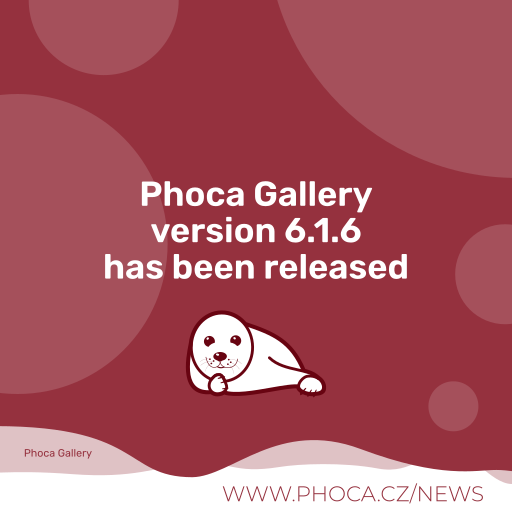
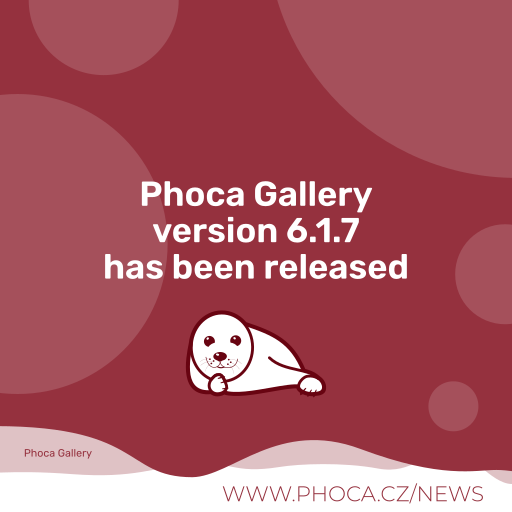
6.1.7

Changed region(s): [[0.2812, 0.4062, 0.7188, 0.4688]]

diff --git a/admin/libraries/phocagallery/youtube/youtube.php b/admin/libraries/phocagallery/youtube/youtube.php
@@ -16,84 +16,87 @@ jimport( 'joomla.filesystem.file' );
 
 class PhocaGalleryYoutube
 {
+	/**
+	 * A YouTube video ID is always exactly 11 characters of [A-Za-z0-9_-].
+	 */
+	public static function isValidCode($code) {
+		return is_string($code) && preg_match('/^[A-Za-z0-9_-]{11}$/', $code) === 1;
+	}
+
 	public static function displayVideo($videoCode, $view = 0, $ywidth = 0, $yheight = 0) {
 
 		$o = '';
-		if ($videoCode != '' && PhocaGalleryUtils::isURLAddress($videoCode) ) {
 
-			$pos1 		= strpos($videoCode, 'https');
-			if ($pos1 !== false) {
-				$shortvideoCode	= 'https://youtu.be/';
-			} else {
-				$shortvideoCode	= 'http://youtu.be/';
-			}
+		// Always re-derive and re-validate the ID, never trust the stored value
+		// (rows saved before this fix may contain attacker-controlled data)
+		$code = self::getCode($videoCode);
 
-			$pos 		= strpos($videoCode, $shortvideoCode);
-			if ($pos !== false) {
-				$code 		= str_replace($shortvideoCode, '', $videoCode);
-			} else {
-				$codeArray 	= explode('=', $videoCode);
-				$code 		= str_replace($codeArray[0].'=', '', $videoCode);
-			}
-
-
-
-		/*	$youtubeheight	= PhocaGallerySettings::getAdvancedSettings('youtubeheight');
-			$youtubewidth	= PhocaGallerySettings::getAdvancedSettings('youtubewidth');
-
-			if ((int)$ywidth > 0) {
-				$youtubewidth	= (int)$ywidth;
-			}
-			if ((int)$yheight > 0) {
-				$youtubeheight	= (int)$yheight;
-			} */
-
-
-			/*$o .= '<object height="'.(int)$youtubeheight.'" width="'.(int)$youtubewidth.'">'
-			.'<param name="movie" value="http://www.youtube.com/v/'.$code.'"></param>'
-			.'<param name="allowFullScreen" value="true"></param>'
-			.'<param name="allowscriptaccess" value="always"></param>'
-			.'<embed src="http://www.youtube.com/v/'.$code.'" type="application/x-shockwave-flash" allowscriptaccess="always" allowfullscreen="true" height="'.(int)$youtubeheight.'" width="'.(int)$youtubewidth.'"></embed></object>';*/
-
-            // height="'.(int)$youtubeheight.'" width="'.(int)$youtubewidth.'"
-			$o .= '<iframe src="//www.youtube.com/embed/'.$code.'" frameborder="0" allowfullscreen></iframe>';
+		if ($code !== '') {
+			$o .= '<iframe src="https://www.youtube.com/embed/' . htmlspecialchars($code, ENT_QUOTES, 'UTF-8') . '" frameborder="0" allowfullscreen></iframe>';
 		}
 
 		return $o;
-
 	}
 
+	/**
+	 * Extract a validated video ID from a YouTube URL.
+	 * Returns '' when the URL is not a recognised YouTube URL or the ID is not valid.
+	 */
 	public static function getCode($url) {
 
-		$o = '';
+		$url = trim((string)$url);
 
-		if ($url != '' && PhocaGalleryUtils::isURLAddress($url) ) {
-			$shortvideoCode		= 'http://youtu.be/';
-			$shortvideoCode2	= 'https://youtu.be/';
-			$pos 		= strpos($url, $shortvideoCode);
-			$pos2 		= strpos($url, $shortvideoCode2);
-			if ($pos !== false) {
-				$code 		= str_replace($shortvideoCode, '', $url);
-			} else if ($pos2 !== false) {
-				$code 		= str_replace($shortvideoCode2, '', $url);
-			} else {
-				$codeArray 	= explode('=', $url);
-				$code 		= str_replace($codeArray[0].'=', '', $url);
-			}
-			return $code;
+		if ($url === '' || !PhocaGalleryUtils::isURLAddress($url)) {
+			return '';
 		}
-		return $o;
+
+		$parts = parse_url($url);
+		if (!is_array($parts) || empty($parts['scheme']) || empty($parts['host'])) {
+			return '';
+		}
+
+		if (!in_array(strtolower($parts['scheme']), array('http', 'https'), true)) {
+			return '';
+		}
+
+		$host = strtolower($parts['host']);
+		$host = preg_replace('/^(www\.|m\.|music\.)/', '', $host);
+		$path = isset($parts['path']) ? $parts['path'] : '';
+		$code = '';
+
+		if ($host === 'youtu.be') {
+			// https://youtu.be/VIDEOID
+			$code = trim($path, '/');
+
+		} else if ($host === 'youtube.com' || $host === 'youtube-nocookie.com') {
+
+			if ($path === '/watch') {
+				// https://www.youtube.com/watch?v=VIDEOID&...
+				$query = array();
+				parse_str(isset($parts['query']) ? $parts['query'] : '', $query);
+				if (isset($query['v']) && is_string($query['v'])) {
+					$code = $query['v'];
+				}
+			} else if (preg_match('#^/(?:embed|v|shorts|live)/([^/?\#]+)#', $path, $m)) {
+				// https://www.youtube.com/embed/VIDEOID
+				$code = $m[1];
+			}
+		}
+
+		return self::isValidCode($code) ? $code : '';
 	}
 
 	public static function importYtb($ytbLink, $folder, &$errorMsg = '') {
 
-		$ytbCode 	= str_replace("&feature=related","",PhocaGalleryYoutube::getCode(strip_tags($ytbLink)));
+		// getCode() returns only a validated 11-character video ID (or '')
+		$ytbCode 	= PhocaGalleryYoutube::getCode(strip_tags($ytbLink));
 
 		$ytb				= array();
 		$ytb['title']		= '';
 		$ytb['desc']		= '';
 		$ytb['filename']	= '';
-		$ytb['link']		= strip_tags($ytbLink);
+		// Store a canonical link built from the validated ID, never the raw user input
+		$ytb['link']		= $ytbCode !== '' ? 'https://www.youtube.com/watch?v=' . $ytbCode : '';
 
 
 		if(!function_exists("curl_init")){
@@ -110,10 +113,8 @@ class PhocaGalleryYoutube
 
 			// Data
 			//$cUrl		= curl_init("http://gdata.youtube.com/feeds/api/videos/".strip_tags($ytbCode));
-			$cUrl 		= curl_init('https://www.googleapis.com/youtube/v3/videos?id='.strip_tags($ytbCode).'&part=snippet&key='.strip_tags($key));
+			$cUrl 		= curl_init('https://www.googleapis.com/youtube/v3/videos?id='.rawurlencode($ytbCode).'&part=snippet&key='.rawurlencode((string)$key));
 
-
-			$ssl = 0;
 
 			if ($ssl == 0) {
 				curl_setopt($cUrl, CURLOPT_SSL_VERIFYPEER, false);
@@ -153,6 +154,11 @@ class PhocaGalleryYoutube
 					$ytb['desc'] = (string)$oS->localized->description;
 				}
 
+				// Text coming from a third party API is stored and later printed by the detail view
+				// without escaping - strip any markup (defense in depth)
+				$ytb['title'] = strip_tags($ytb['title']);
+				$ytb['desc']  = strip_tags($ytb['desc']);
+
 				$img = '';
 
 				if (isset($oS->thumbnails->standard->url)) {
@@ -174,7 +180,7 @@ class PhocaGalleryYoutube
 
 
 
-				$ytb['filename']	= $folder.strip_tags($ytbCode).'.jpg';
+				$ytb['filename']	= $folder.$ytbCode.'.jpg';
 
 
 				if ($img != '') {
@@ -231,7 +237,7 @@ class PhocaGalleryYoutube
 				curl_close($cUrl);
 			}
 
-			$ytb['filename']	= $folder.strip_tags($ytbCode).'.jpg';
+			$ytb['filename']	= $folder.$ytbCode.'.jpg';
 
 			if (PhocaGalleryFile::exists(JPATH_ROOT . '/' .'images' . '/' . 'phocagallery' . '/'. $ytb['filename'], $img)) {
 				$errorMsg = Text::_('COM_PHOCAGALLERY_YTB_ERROR_VIDEO_EXISTS');

diff --git a/site/controllers/category.php b/site/controllers/category.php
@@ -501,7 +501,15 @@ class PhocaGalleryControllerCategory extends PhocaGalleryController
 		$limitStart	= $this->input->get('limitstart', 0, 'int');
 
 		$paramsC 	= ComponentHelper::getParams('com_phocagallery') ;
+		$catidAlias	= $catid;// for return (must be set before it is used in the redirect URL)
 		$catid 		= (int)$catid;
+
+		// Set the limistart (TO DO)
+		if ($limitStart > 0) {
+			$limitStartUrl	= '&limitstart='.$limitStart;
+		} else {
+			$limitStartUrl	= '';
+		}
 
 		$return			= Route::_('index.php?option=com_phocagallery&view=category&id='.$catidAlias.'&tab='.$tab.'&Itemid='.$Itemid.$limitStartUrl, false);
 		$redirectUrl 	= $return;
@@ -510,14 +518,6 @@ class PhocaGalleryControllerCategory extends PhocaGalleryController
 			$app->enqueueMessage(Text::_('COM_PHOCAGALLERY_PLEASE_SELECT_CATEGORY'), 'error');
 			$app->redirect($redirectUrl);
 			return false;
-		}
-
-		$catidAlias	= $catid;// for return
-		// Set the limistart (TO DO)
-		if ($limitStart > 0) {
-			$limitStartUrl	= '&limitstart='.$limitStart;
-		} else {
-			$limitStartUrl	= '';
 		}
 
 
@@ -572,7 +572,7 @@ class PhocaGalleryControllerCategory extends PhocaGalleryController
 
 
 
-			$ytbLink	= $this->input->get( 'phocagalleryytbuploadlink', '', 'string');
+			$ytbLink	= trim((string)$this->input->get( 'phocagalleryytbuploadlink', '', 'string'));
 
 			$errorYtbMsg	= '';
 			$ytbData	= PhocaGalleryYoutube::importYtb($ytbLink, $rightFolder . '/', $errorYtbMsg);

diff --git a/README.MD b/README.MD
@@ -114,7 +114,7 @@ If you need additional information beyond this GitHub repository, further docume
 ### Version (Joomla! 5.x - no longer supported)
 5.1.3
 ### Version (Joomla! 6.x)
-6.1.6
+6.1.7
 
 ### License
 
